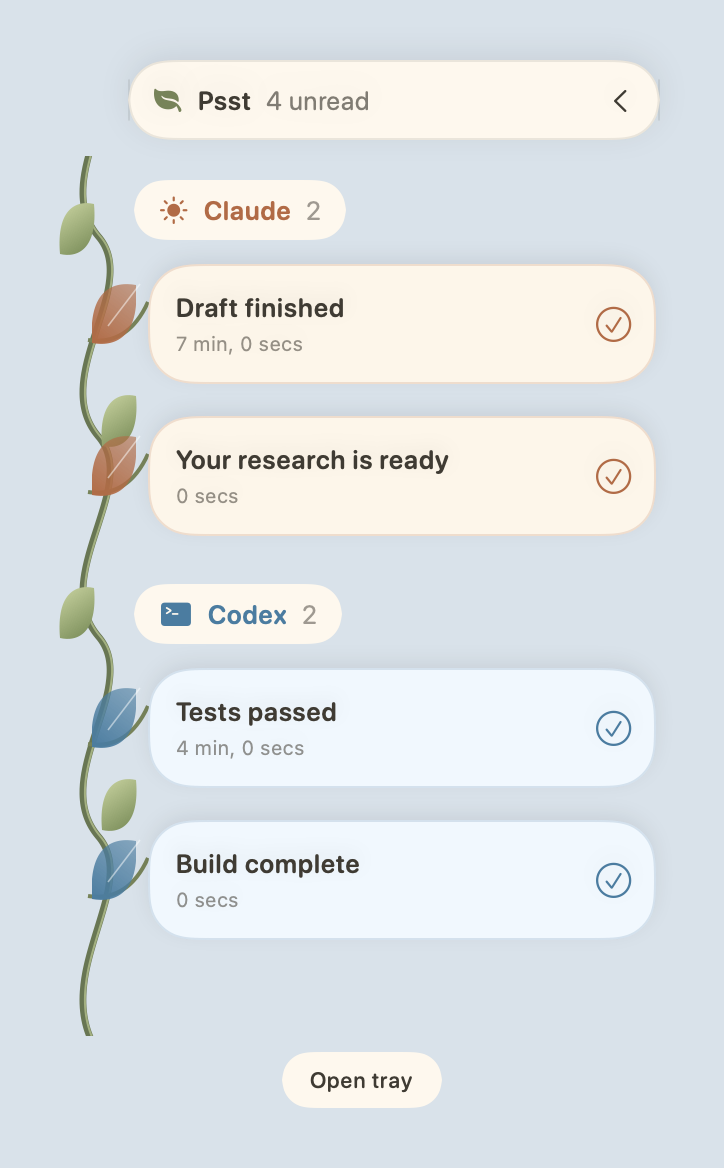
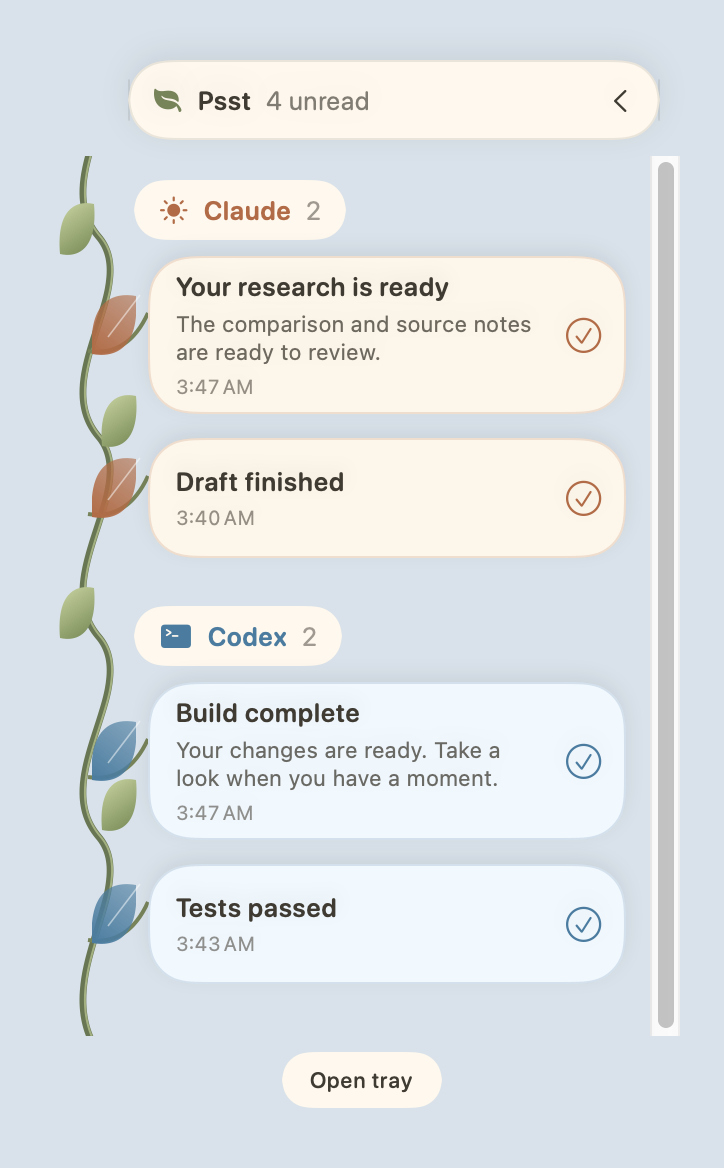
Keep the vine compact with meaningful previews and grouped older updates

Changed region(s): [[0.1215, 0.1233, 0.942, 0.8938]]

diff --git a/Sources/AlienPing/VineView.swift b/Sources/AlienPing/VineView.swift
@@ -78,16 +78,28 @@ struct VineView:View {
                 .shadow(color:.black.opacity(0.08),radius:8,y:3).vineTarget().padding(.leading,42).padding(.trailing,10).padding(.top,8).padding(.bottom,8)
             ScrollView {
                 VStack(alignment:.leading,spacing:0) {
-                    ForEach([SourceApp.claude,.codex]) { source in
-                        let entries=unread.filter{$0.source==source}
-                        if !entries.isEmpty {
-                            HStack(spacing:7) {
-                                Image(systemName:source == .claude ? "sun.max.fill":"terminal.fill")
-                                Text(source.rawValue).fontWeight(.semibold)
-                                Text("\(entries.count)").foregroundStyle(ink.opacity(0.5))
-                            }.foregroundStyle(accent(source)).padding(.horizontal,12).padding(.vertical,7)
-                                .background(Color(hex:"FFF8ED"),in:Capsule()).padding(.leading,45).padding(.top,12).padding(.bottom,8)
-                            ForEach(entries) { entry in row(entry) }
+                    ForEach(VineSummary.groups(unread),id:\.source) { group in
+                        HStack(spacing:7) {
+                            Image(systemName:group.source == .claude ? "sun.max.fill":"terminal.fill")
+                            Text(group.source.rawValue).fontWeight(.semibold)
+                            Text("\(group.totalCount)").foregroundStyle(ink.opacity(0.5))
+                        }.foregroundStyle(accent(group.source)).padding(.horizontal,12).padding(.vertical,7)
+                            .background(Color(hex:"FFF8ED"),in:Capsule()).padding(.leading,45).padding(.top,12).padding(.bottom,8)
+                        ForEach(group.entries) { entry in row(entry) }
+                        if group.unsavedCount>0 {
+                            Button { attention.showInbox?() } label:{
+                                VStack(alignment:.leading,spacing:5) {
+                                    Text("\(group.unsavedCount) earlier update\(group.unsavedCount==1 ? "":"s")").fontWeight(.semibold)
+                                    Text("Text wasn’t saved. New updates will show details here.").font(.system(size:11)).foregroundStyle(ink.opacity(0.65)).fixedSize(horizontal:false,vertical:true)
+                                }.frame(maxWidth:.infinity,alignment:.leading).padding(13)
+                            }.buttonStyle(.plain).background(Color(hex:"FFF8ED"),in:RoundedRectangle(cornerRadius:18))
+                                .vineTarget(scrolled:true).padding(.leading,52).padding(.trailing,12).padding(.bottom,8)
+                        }
+                        if group.moreCount>0 {
+                            Button("\(group.moreCount) more in tray") { attention.showInbox?() }
+                                .buttonStyle(.plain).font(.system(size:11,weight:.medium)).foregroundStyle(accent(group.source))
+                                .padding(.horizontal,13).padding(.vertical,8).background(Color(hex:"FFF8ED"),in:Capsule())
+                                .vineTarget(scrolled:true).padding(.leading,52).padding(.bottom,10)
                         }
                     }
                 }.frame(maxWidth:.infinity,alignment:.leading).padding(.bottom,15)
@@ -99,7 +111,8 @@ struct VineView:View {
     private func accent(_ source:SourceApp)->Color { Color(hex:source == .claude ? "BC673D":"397EA3") }
     private func row(_ entry:InboxEntry)->some View {
         let color=accent(entry.source)
-        let title=model.hideText || entry.title.isEmpty ? "Notification from \(entry.source.rawValue)" : entry.title
+        let title=model.hideText ? "Notification from \(entry.source.rawValue)" : (entry.title.isEmpty ? String(entry.body.prefix(80)) : entry.title)
+        let detail=model.hideText || entry.title.isEmpty ? "" : entry.body
         return HStack(spacing:0) {
             ZStack {
                 Path { p in p.move(to:CGPoint(x:22,y:42));p.addQuadCurve(to:CGPoint(x:52,y:23),control:CGPoint(x:42,y:45)) }.stroke(Color(hex:"748354"),lineWidth:2)
@@ -110,7 +123,8 @@ struct VineView:View {
                 Button { attention.open(entry) } label:{
                     VStack(alignment:.leading,spacing:4) {
                         Text(title).font(.system(size:13,weight:.semibold,design:.rounded)).lineLimit(2).multilineTextAlignment(.leading)
-                        Text(entry.date,style:.relative).font(.system(size:10)).foregroundStyle(ink.opacity(0.55))
+                        if !detail.isEmpty { Text(detail).font(.system(size:11)).foregroundStyle(ink.opacity(0.75)).lineLimit(2).multilineTextAlignment(.leading) }
+                        Text(entry.date.formatted(date:.omitted,time:.shortened)).font(.system(size:10)).foregroundStyle(ink.opacity(0.55))
                     }.frame(maxWidth:.infinity,minHeight:46,alignment:.leading).contentShape(Rectangle())
                 }.buttonStyle(.plain).help("Open \(entry.source.rawValue)")
                 Button { attention.markRead(entry.id) } label:{Image(systemName:"checkmark.circle").font(.system(size:18,weight:.light)).foregroundStyle(color).frame(width:32,height:44)}

diff --git a/Sources/AlienPing/AttentionController.swift b/Sources/AlienPing/AttentionController.swift
@@ -78,7 +78,8 @@ final class AttentionController: ObservableObject {
         else if autoMeetings && meetings.active { reason="Meeting detected" }
         else if quietAway && idle >= 120 { reason="Away from your Mac" }
         else { reason="" }
-        meetingStatus=autoMeetings ? meetings.status : "Automatic meeting detection is off."
+        let currentMeetingStatus=autoMeetings ? meetings.status : "Automatic meeting detection is off."
+        if meetingStatus != currentMeetingStatus { meetingStatus=currentMeetingStatus }
         if reason != quietReason {
             quietReason=reason
             if !reason.isEmpty {
@@ -87,7 +88,8 @@ final class AttentionController: ObservableObject {
             }
             Diagnostics.shared.event("quiet_mode_changed",["quiet":!reason.isEmpty])
         }
-        let oldCount=inbox.entries.count;inbox.prune();if oldCount != inbox.entries.count { save() }
+        var pruned=inbox;pruned.prune()
+        if pruned.entries.count != inbox.entries.count { inbox=pruned;save() }
         let valid=Set(inbox.entries.map(\.id));live=live.filter{valid.contains($0.key)}
         guard model.enabled else { return }
         let wasDeferred=queue.deferred

diff --git a/Sources/AlienPing/VineController.swift b/Sources/AlienPing/VineController.swift
@@ -1,6 +1,7 @@
 import AppKit
 import SwiftUI
 import Combine
+import AlienCore
 
 /// A nonactivating accessory; decorative space never owns the mouse.
 final class VineController {
@@ -45,9 +46,11 @@ final class VineController {
         guard state.enabled else { panel.orderOut(nil);return }
         let count=model.attention.inbox.unreadCount
         let expanded=state.expanded && count>0 && !model.attention.isQuiet
-        let groups=Set(model.attention.inbox.entries.filter{!$0.read}.map(\.source)).count
+        let groups=VineSummary.groups(model.attention.inbox.entries)
+        let cards=groups.reduce(0){$0+$1.cardCount}
+        let moreLinks=groups.filter{$0.moreCount>0}.count
         let area=screen.visibleFrame
-        let height=expanded ? min(area.height-32,max(220,CGFloat(count)*82+CGFloat(groups)*48+100)) : 116
+        let height=expanded ? min(area.height-32,max(220,CGFloat(cards)*96+CGFloat(groups.count)*48+CGFloat(moreLinks)*38+100)) : 116
         let width:CGFloat=expanded ? min(318,area.width) : 76
         let rect=NSRect(x:area.minX+4,y:area.midY-height/2,width:width,height:height)
         if panel.frame != rect { panel.setFrame(rect,display:true) }

diff --git a/Tests/AlienCoreTests/main.swift b/Tests/AlienCoreTests/main.swift
@@ -227,3 +227,16 @@ XCTAssertEqual(inbox.entries.count,200)
 let restored=try JSONDecoder().decode(InboxState.self,from:inbox.encoded(storeContent:true))
 XCTAssertEqual(restored.entries.first?.body,"test")
 print("Selected edges, style filtering, retention cap and opt-in persistence passed")
+var vineFixtures=(0..<8).map{InboxEntry(source:.claude,title:"Update \($0)",body:"Meaningful detail",date:now.addingTimeInterval(Double($0)))}
+vineFixtures.append(InboxEntry(source:.claude,title:"",body:"",date:now))
+vineFixtures.append(InboxEntry(source:.codex,title:"",body:"A useful body-only update",date:now))
+vineFixtures.append(InboxEntry(source:.codex,title:"Read item",body:"",date:now,read:true))
+let vineGroups=VineSummary.groups(vineFixtures)
+XCTAssertEqual(vineGroups.count,2)
+XCTAssertEqual(vineGroups[0].entries.count,3)
+XCTAssertEqual(vineGroups[0].entries[0].title,"Update 7")
+XCTAssertEqual(vineGroups[0].moreCount,5)
+XCTAssertEqual(vineGroups[0].unsavedCount,1)
+XCTAssertEqual(vineGroups[0].totalCount,9)
+XCTAssertEqual(vineGroups[1].entries.count,1)
+print("Vine previews cap at three per app, prefer newest content, group unsaved items and exclude read items")

diff --git a/Sources/AlienCore/VineSummary.swift b/Sources/AlienCore/VineSummary.swift
@@ -1,0 +1,22 @@
+import Foundation
+
+public struct VineGroup {
+    public let source:SourceApp
+    public let entries:[InboxEntry]
+    public let totalCount:Int
+    public let unsavedCount:Int
+    public let moreCount:Int
+    public var cardCount:Int { entries.count+(unsavedCount>0 ? 1:0) }
+}
+public enum VineSummary {
+    /// A bounded preview of meaningful unread updates; the tray retains every item.
+    public static func groups(_ entries:[InboxEntry],limit:Int=3)->[VineGroup] {
+        [SourceApp.claude,.codex].compactMap { source in
+            let unread=entries.filter{!$0.read && $0.source==source}.sorted{$0.date>$1.date}
+            guard !unread.isEmpty else { return nil }
+            let content=unread.filter{!$0.title.trimmingCharacters(in:.whitespacesAndNewlines).isEmpty || !$0.body.trimmingCharacters(in:.whitespacesAndNewlines).isEmpty}
+            let shown=Array(content.prefix(max(0,limit)))
+            return VineGroup(source:source,entries:shown,totalCount:unread.count,unsavedCount:unread.count-content.count,moreCount:content.count-shown.count)
+        }
+    }
+}

diff --git a/README.md b/README.md
@@ -22,7 +22,7 @@ These GIFs show the bundled character frames. In the app, companions also travel
 
 ![Native notification vine with sample messages](docs/images/vine.png)
 
-Unread Claude and Codex updates become orange and blue leaves along the left screen edge. Click a title to open its app or the check to mark it read. The list scrolls when it grows. Collapse it with the chevron, or hide it through **sparkle menu → Show notification vine**. Your choice survives restart. Quiet mode and an empty tray show only the small leaf badge.
+Unread Claude and Codex updates become orange and blue leaves along the left screen edge. Click a title to open its app or the check to mark it read. The vine shows up to three recent updates per app, each with its title and a two-line message preview. A “more in tray” link keeps the rest reachable. Older items whose text was not saved are grouped instead of filling the vine with generic cards. Collapse it with the chevron, or hide it through **sparkle menu → Show notification vine**. Your choice survives restart. Quiet mode and an empty tray show only the small leaf badge.
 
 ![Collapsed vine badge](docs/images/vine-collapsed.png)
 
@@ -41,7 +41,7 @@ Missed notifications stay in your tray. Bursts within two seconds become one sum
 
 ## Download and install
 
-Get **Psst-0.8.1-universal.dmg** from [Releases](https://github.com/Sickaada/psst/releases). Apple Silicon and Intel are included in one app. macOS 14 or newer is required. Notification compatibility depends on the macOS and source-app versions; this first release has not been tested on every supported Mac.
+Get **Psst-0.8.2-universal.dmg** from [Releases](https://github.com/Sickaada/psst/releases). Apple Silicon and Intel are included in one app. macOS 14 or newer is required. Notification compatibility depends on the macOS and source-app versions; this first release has not been tested on every supported Mac.
 
 1. Open the disk image and drag **Psst** into **Applications**. Eject the disk image.
 2. Open Psst from Applications. This personal/community build is locally signed, **not Apple-notarized**. If macOS blocks it, review [Apple’s instructions for opening an app from an unidentified developer](https://support.apple.com/en-us/102445). Only proceed if you trust this download. Do not disable Gatekeeper globally or install a signing certificate.

diff --git a/docs/superpowers/specs/2026-11-26-vine.md b/docs/superpowers/specs/2026-11-26-vine.md
@@ -5,3 +5,5 @@ User selected the climbing-vine visual and approved building/installing it. A na
 Use SwiftUI vector shapes and an AppKit nonactivating panel, not bitmap text or a webview. This scales crisply and needs no new dependency. Alternatives were a literal branching tree, constellation, mobile, transit lines and shelves; user chose vine.
 
 Click a title to open its source app and mark read, matching the existing tray. A separate check marks read without opening. All unread items remain reachable by scrolling. Header shows count/collapse and opens tray. Collapsed badge remembers preference; empty and quiet states stay compact. Menu can hide/show vine. Existing capture, animations, app colors and startup signing stay intact. No screen recording. Use offscreen sample renders for review. Quiet mode never auto-expands it. Use the primary display visible frame and update after screen/Dock changes. Decorative transparent margins must pass mouse clicks through. Hide-text preferences apply to title and accessibility labels.
+
+User refinement: keep the vine compact with at most three newest content-bearing unread notifications per app, including a two-line body preview. Group metadata-only items and link overflow to full tray. Do not invent missing message text or silently enable persistent content storage.

diff --git a/docs/superpowers/plans/2026-11-26-vine.md b/docs/superpowers/plans/2026-11-26-vine.md
@@ -15,3 +15,5 @@
 Review focus: many pending rows, zero unread, privacy text hiding, quiet transitions, display resize, no app focus theft, interactive targets vs decorative click-through areas.
 
 Validation: offscreen layout/state harness passed twice after fixing excess test rendering. Core routing, inbox, motion, signing and pipeline checks passed. Universal signed install passed fresh heartbeat with Accessibility trusted and both companion previews. Runtime reported vine expanded with 17 real unread items. No screen capture used. Physical mouse-event delivery, focus behavior and scrolling remain user-verification boundaries; offscreen tests prove target geometry and state transitions only. Review fixes: clip scroll-row targets to viewport and remove invisible trailing click target.
+
+Follow-up refinement: VineSummary selects three newest content-bearing items per app, groups missing-text records, and counts overflow accurately. Native rows include two-line body previews and a fixed clock timestamp. Unchanged quiet/inbox state no longer republishes every half-second. Core selection/count tests and offscreen state checks passed; review found no material correctness/privacy issue. Persistent message storage remains opt-in.
